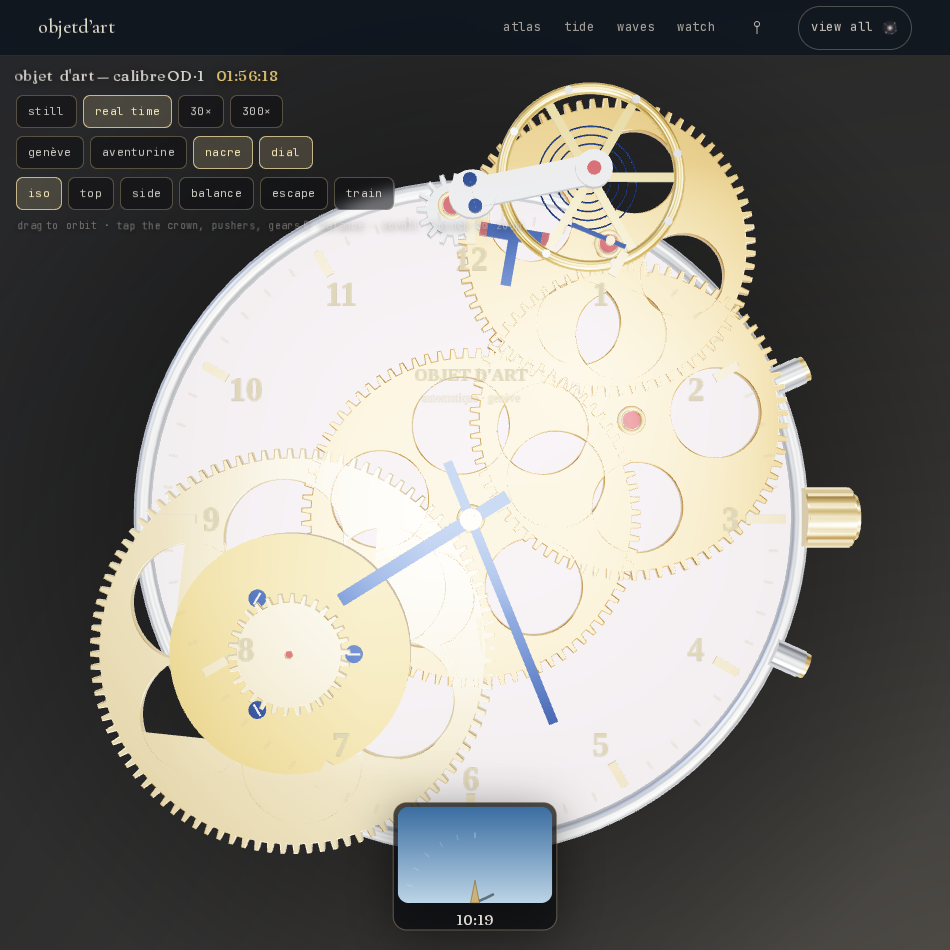
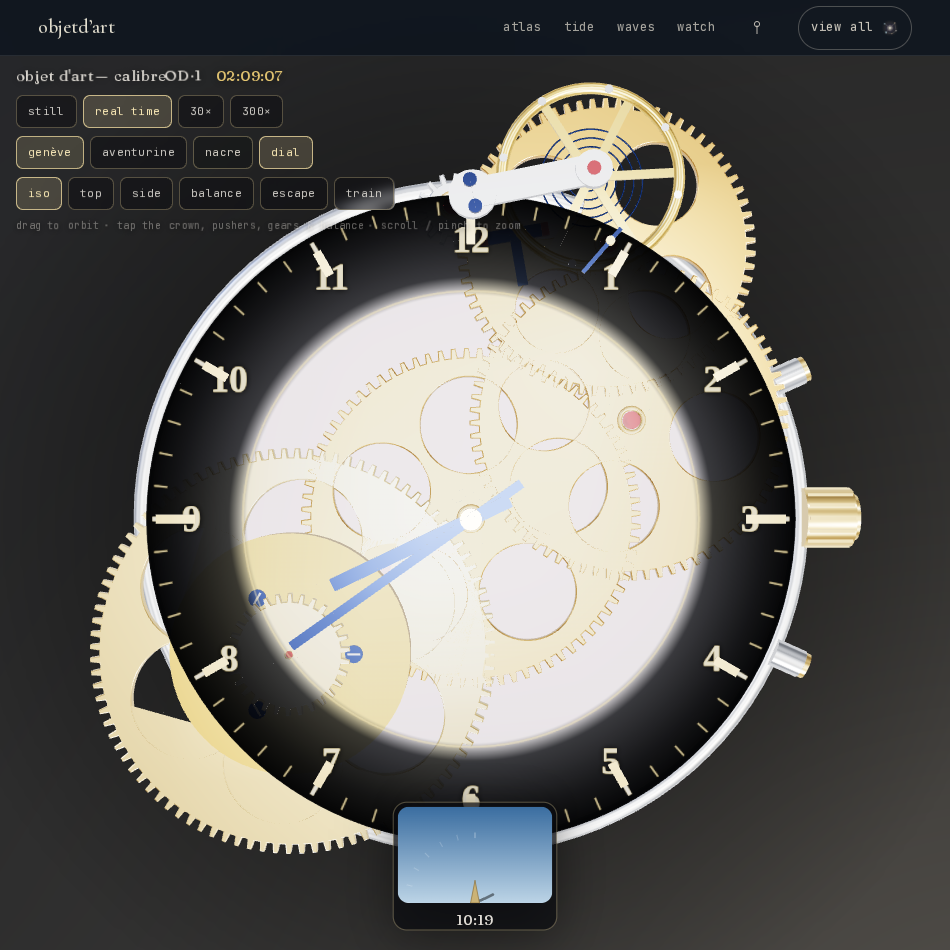
Movement: legible fumé dial (fix faint numerals on nacre) (#40)
* Harden Railway deploy: drop playwright from the manifest

playwright's postinstall downloads a browser, which can slow or fail the
Railway build. It's only used by the dev-only screenshot harness
(scripts/shoot.mjs), so remove it from devDependencies and sync the lock.
three stays a runtime dependency; the production build is unchanged.

Claude-Session: https://claude.ai/code/session_01DydoZAvwyz9eCJ8rpwmKwc

* Movement: escapement stepping + fast-time control + on-screen HUD

Make the movement feel alive and drivable from any device.

- True escapement cadence: the escape wheel releases one tooth per balance
  cycle, so the escape/fourth/third wheels and the seconds hand advance in
  quantised steps (the mechanical "tick") while the balance swings smoothly.
  At real-time rate it still tells the actual local time.
- Fast-time control: real time / 30× / 300× so the whole going train
  visibly spins (at 1× the train barely moves) — the centre and barrel run
  smooth, the regulator ticks.
- On-screen HUD (mobile-friendly): live clock readout, speed buttons, and
  camera view presets, all over the canvas without blocking orbit/zoom.

Iteration iter-05 captured.

Claude-Session: https://claude.ai/code/session_01DydoZAvwyz9eCJ8rpwmKwc

* Movement: studio grounding + railway.json

- Ground the movement in a studio: a soft radial contact-shadow decal plus
  a faintly reflective dark floor, so it sits like a real object instead of
[…]

diff --git a/src/components/Movement.tsx b/src/components/Movement.tsx
@@ -595,30 +595,41 @@ export default function Movement() {
       const s = 1024, c = document.createElement("canvas"); c.width = c.height = s;
       const x = c.getContext("2d")!;
       const C0 = s / 2;
-      const rNum = s * 0.40, rTickO = s * 0.475, rTickI = s * 0.45, rMinO = s * 0.475, rMinI = s * 0.462;
+      const rBandI = s * 0.345, rBandO = s * 0.5;
+      const rNum = s * 0.43, rTickO = s * 0.49, rTickMaj = s * 0.455, rTickMin = s * 0.47;
       x.clearRect(0, 0, s, s);
-      // minute track
+      // fumé chapter-ring band: translucent toward the open centre, deep at rim
+      const grad = x.createRadialGradient(C0, C0, rBandI, C0, C0, rBandO);
+      grad.addColorStop(0, "rgba(20,24,30,0.05)");
+      grad.addColorStop(0.18, "rgba(17,20,26,0.78)");
+      grad.addColorStop(0.7, "rgba(12,14,19,0.92)");
+      grad.addColorStop(1, "rgba(6,8,11,0.98)");
+      x.beginPath(); x.arc(C0, C0, rBandO, 0, Math.PI * 2); x.fillStyle = grad; x.fill();
+      x.globalCompositeOperation = "destination-out";
+      x.beginPath(); x.arc(C0, C0, rBandI, 0, Math.PI * 2); x.fill();
+      x.globalCompositeOperation = "source-over";
+      // inner + outer hairline rails
+      x.strokeStyle = "rgba(231,211,154,0.5)"; x.lineWidth = 2.5;
+      x.beginPath(); x.arc(C0, C0, rBandI + 6, 0, Math.PI * 2); x.stroke();
+      // minute track (opaque)
       for (let i = 0; i < 60; i++) {
         const a = (i / 60) * Math.PI * 2 - Math.PI / 2;
         const major = i % 5 === 0;
-        const ro = rMinO, ri = major ? rTickI : rMinI;
-        x.strokeStyle = major ? "rgba(231,211,154,0.95)" : "rgba(231,211,154,0.55)";
-        x.lineWidth = major ? 5 : 2;
-        x.beginPath(); x.moveTo(C0 + Math.cos(a) * ri, C0 + Math.sin(a) * ri); x.lineTo(C0 + Math.cos(a) * ro, C0 + Math.sin(a) * ro); x.stroke();
+        const ri = major ? rTickMaj : rTickMin;
+        x.strokeStyle = major ? "rgba(244,232,200,1)" : "rgba(231,211,154,0.8)";
+        x.lineWidth = major ? 6 : 2.4;
+        x.beginPath(); x.moveTo(C0 + Math.cos(a) * ri, C0 + Math.sin(a) * ri); x.lineTo(C0 + Math.cos(a) * rTickO, C0 + Math.sin(a) * rTickO); x.stroke();
       }
-      // hour numerals
-      x.fillStyle = "#e7d39a"; x.textAlign = "center"; x.textBaseline = "middle";
-      x.font = `600 ${Math.round(s * 0.052)}px "Times New Roman", Georgia, serif`;
+      // hour numerals — fully opaque, bright, with a soft dark halo for contrast
+      x.textAlign = "center"; x.textBaseline = "middle";
+      x.font = `700 ${Math.round(s * 0.058)}px "Times New Roman", Georgia, serif`;
       for (let h = 1; h <= 12; h++) {
         const a = (h / 12) * Math.PI * 2 - Math.PI / 2;
-        x.fillText(String(h), C0 + Math.cos(a) * rNum, C0 + Math.sin(a) * rNum + s * 0.004);
+        const nx = C0 + Math.cos(a) * rNum, ny = C0 + Math.sin(a) * rNum + s * 0.004;
+        x.shadowColor = "rgba(0,0,0,0.85)"; x.shadowBlur = 10;
+        x.fillStyle = "#f6e6b4"; x.fillText(String(h), nx, ny);
       }
-      // signature
-      x.fillStyle = "rgba(231,211,154,0.9)"; x.font = `600 ${Math.round(s * 0.026)}px "Times New Roman", Georgia, serif`;
-      x.fillText("OBJET D'ART", C0, C0 - s * 0.22);
-      x.font = `400 ${Math.round(s * 0.018)}px "Times New Roman", Georgia, serif`;
-      x.fillStyle = "rgba(231,211,154,0.6)";
-      x.fillText("automatique · genève", C0, C0 - s * 0.185);
+      x.shadowBlur = 0;
       const t = new THREE.CanvasTexture(c); t.colorSpace = THREE.SRGBColorSpace; t.anisotropy = 4;
       return t;
     })();